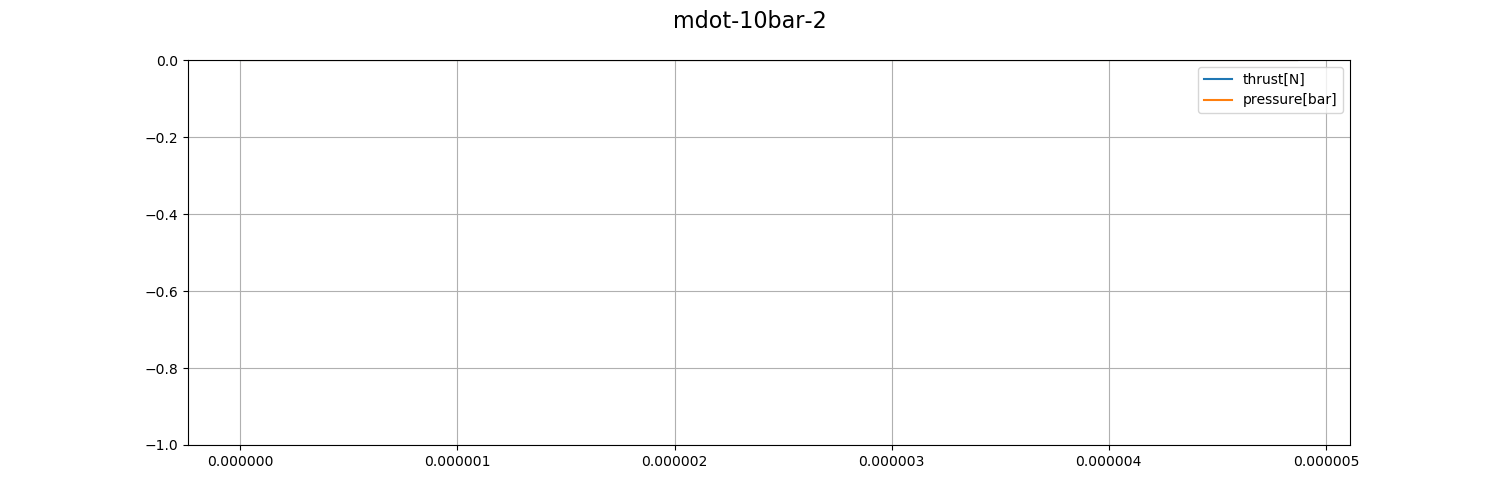
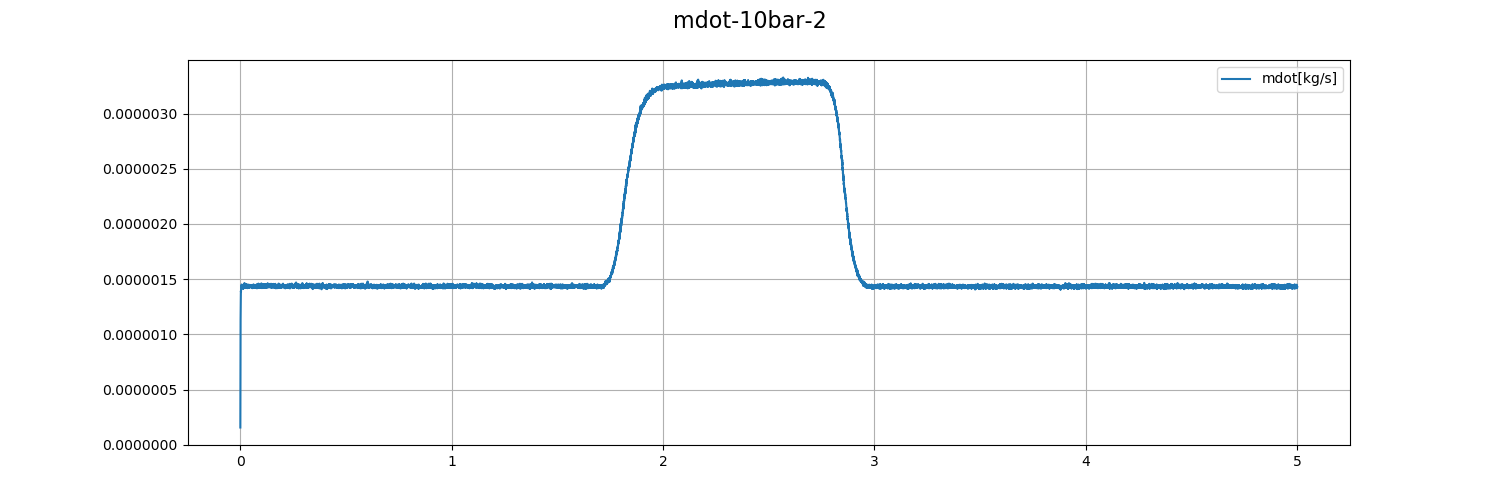
complete 1-2 mdot

diff --git a/propulsion/plotter.py b/propulsion/plotter.py
@@ -21,13 +21,16 @@ class Plotter:
     def visualize(self, rep):
         pass
 
-    def save_plot(self, rep):
-        fig = self.plot(rep, self.name)
+    def save_plot(self, rep, isOne=False):
+        if isOne:
+            fig = self.plot_one(rep, self.name)
+        else:
+            fig = self.plot_two(rep, self.name)
         if not os.path.exists(self.dir):
             os.makedirs(self.dir)
         fig.savefig(self.dir + self.name + '.png')
 
-    def plot(self, inputdata, name):
+    def plot_two(self, inputdata, name):
         fig, ax = plt.subplots(1,1)
         fig.set_size_inches(15, 5)
         fig.suptitle(name, fontsize=16)
@@ -44,3 +47,15 @@ class Plotter:
         ax.grid(True)
         ax.legend(['thrust[N]', 'pressure[bar]'])
         return fig
+
+    def plot_one(self, inputdata, name):
+        fig, ax = plt.subplots(1,1)
+        fig.set_size_inches(15, 5)
+        fig.suptitle(name, fontsize=16)
+        t = inputdata[:, 0].tolist()
+        y1 = inputdata[:, 1].tolist()
+        ax.plot(t, y1, label='mdot[kg/s]')
+        ax.grid(True)
+        ax.legend()
+        return fig
+

diff --git a/propulsion/calculator.py b/propulsion/calculator.py
@@ -13,9 +13,9 @@ class Calculator:
         self.M = 2.94
 
 
-    def calc_mdot(self):
+    def calc_mdot(self, P):
 
-        P = self.input
+        P = P
         Astar = self.Astar
         T = self.T
         gamma = self.gamma
@@ -25,7 +25,6 @@ class Calculator:
         b = math.sqrt(gamma / R)
         c = (gamma + 1) / 2
         d = -(gamma + 1) / (2*gamma - 2)
-        print(a*b*(c**d))
         return a*b*(c**d)
 
     def calc_exit_pressure(self, input):
@@ -40,7 +39,11 @@ class Calculator:
 
     def run(self, target):
         if target == "mdot":
-            return self.calc_mdot()
+            output = np.zeros(self.input.shape)
+            output[:, 0] = self.input[:, 0]
+            for i, P in enumerate(self.input[:, 2]):
+                output[i, 1] = self.calc_mdot(P) 
+            return output
 
         elif target == "exit_pressure":
             return self.exit_pressure()

diff --git a/propulsion/master.py b/propulsion/master.py
@@ -43,14 +43,13 @@ if __name__ == "__main__":
     for trt, replicates in preprocessed_data.items():
         for i, rep in enumerate(replicates):
             cc = Calculator(prefix, trt, str(i), rep)
-            mdot = cc.run('mdot')
-            mdot_data[trt].append(mdot)
+            output = cc.run('mdot')
+            mdot_data[trt].append(output)
     #Plot
-    print(mdot_data)
     for trt, replicates in mdot_data.items():
 
         for i, rep in enumerate(replicates):
  
             plotter = Plotter(prefix, trt, str(i), target=(1,2))
-            plotter.save_plot(rep)
+            plotter.save_plot(rep, True)
     

diff --git a/propulsion/preprocessor.py b/propulsion/preprocessor.py
@@ -35,7 +35,6 @@ class Preprocessor:
         lpf = LowPassFilter(cutoff, 0.01)
         filtered = np.zeros(data.shape)
         for i, val in enumerate(data):
-            print(i, val)
             filtered[i] = lpf.filter(val)
         return filtered
     
@@ -83,6 +82,6 @@ class Preprocessor:
         preprocessed[:, 2] = self.convert_scale(preprocessed[:, 2], V_TO_BAR)
   
         #Plot and Save
-        fig = self.plot(preprocessed, self.name)
-        self.save_plot(fig, self.name)
+        # fig = self.plot(preprocessed, self.name)
+        # self.save_plot(fig, self.name)
         return preprocessed
